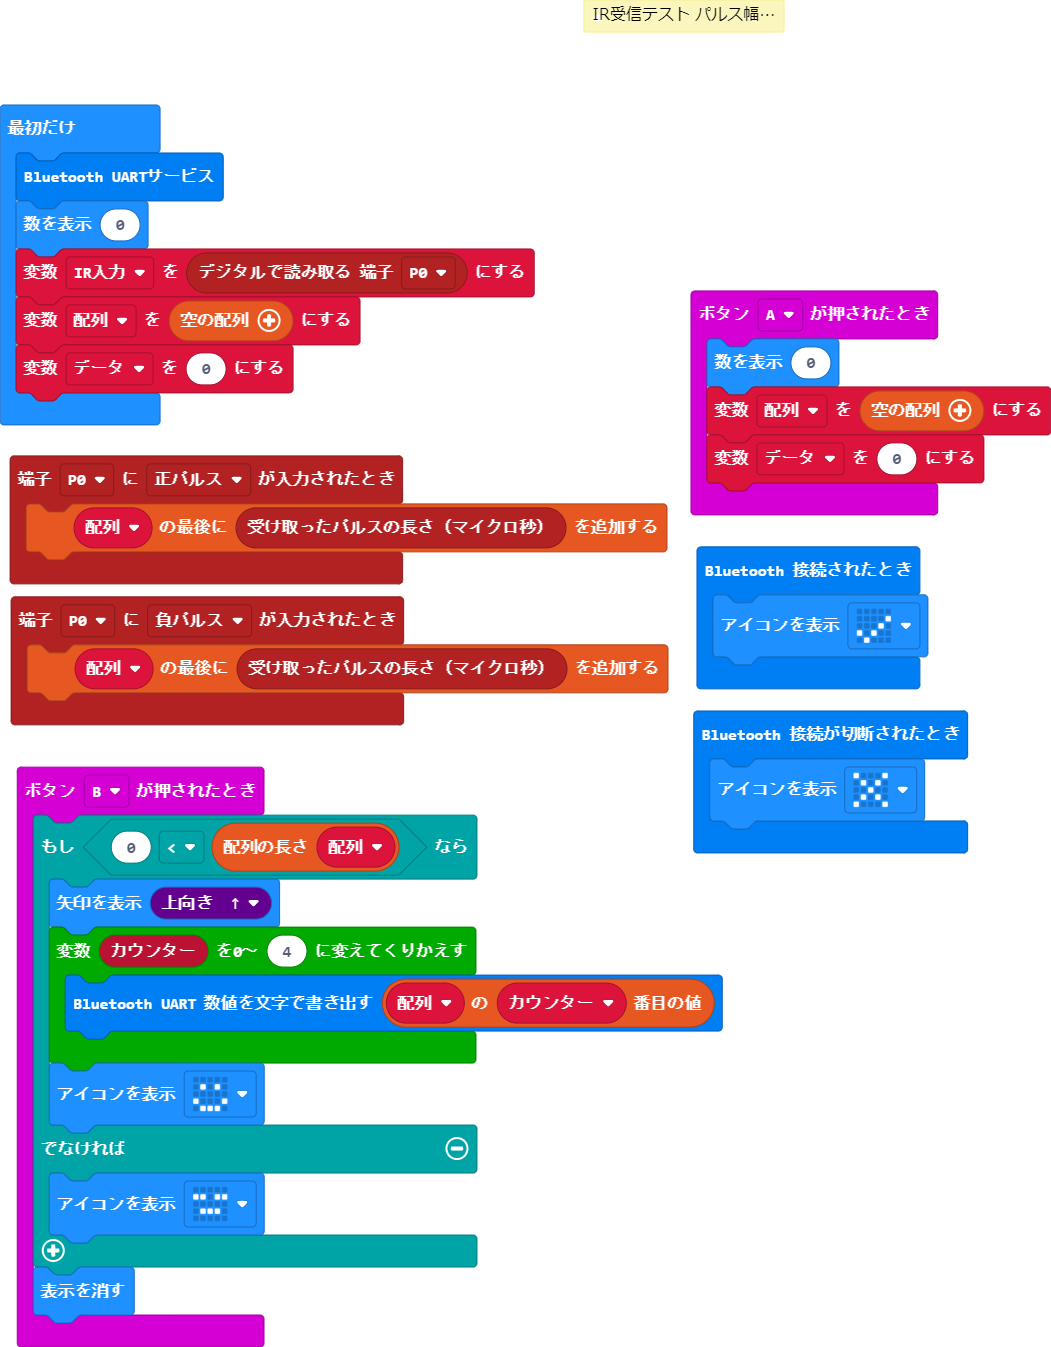
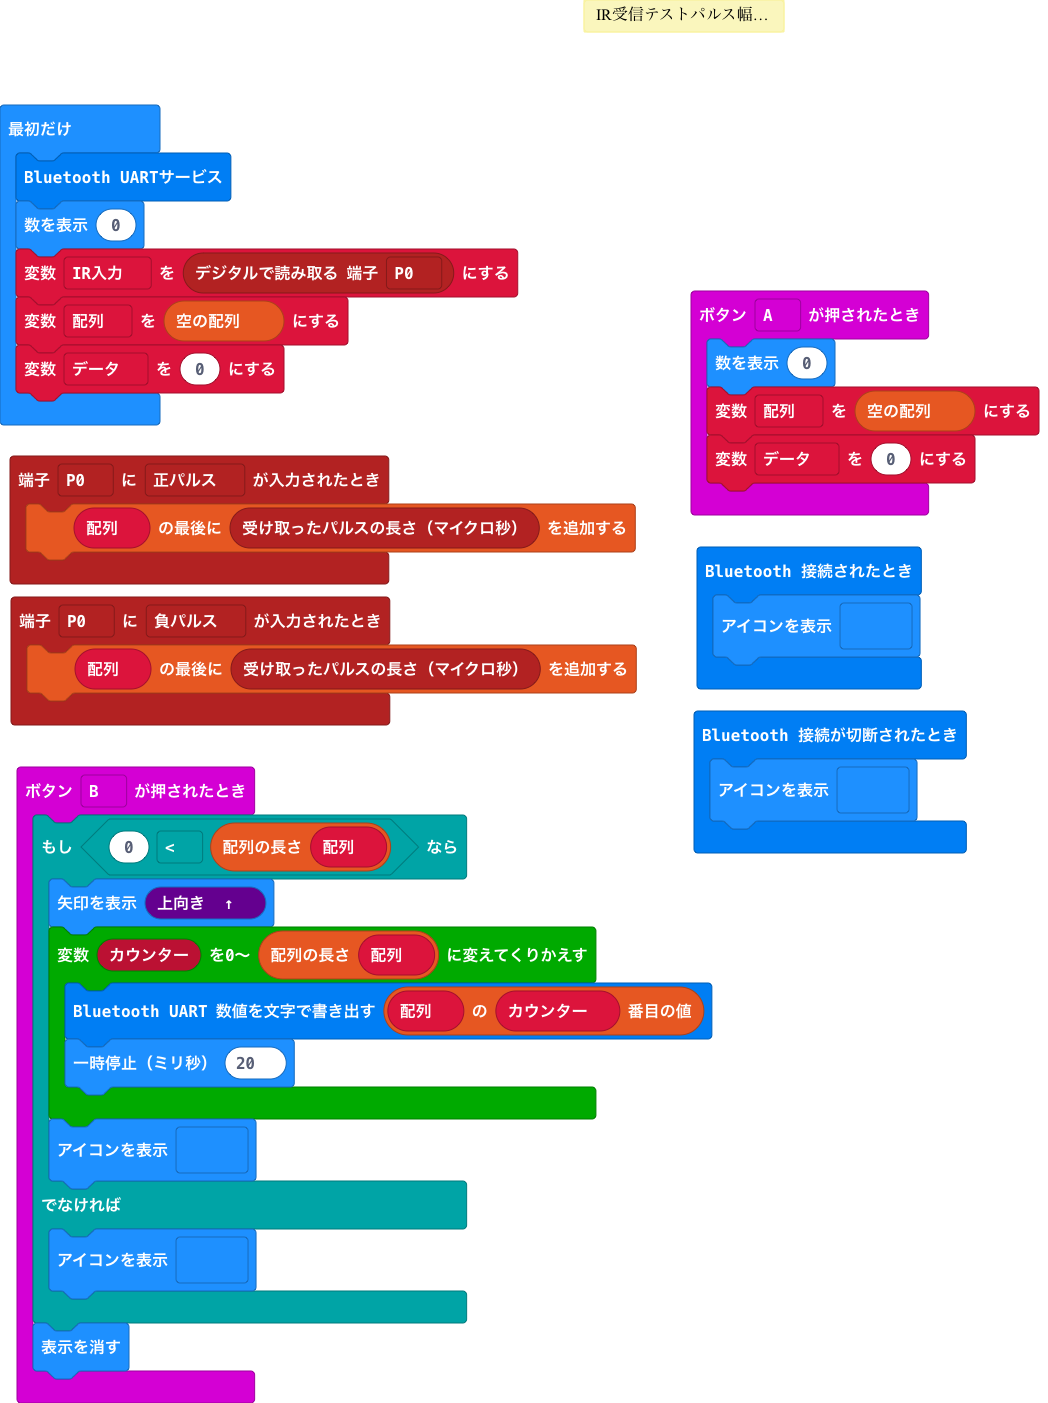
更新 main.blocks, main.ts

Changed region(s): [[0.0, 0.0624, 1.0, 0.9978], [0.5496, 0.0, 0.7328, 0.0312], [0.2137, 0.9666, 0.2748, 1.0]]

diff --git a/main.ts b/main.ts
@@ -29,8 +29,9 @@ pins.onPulsed(DigitalPin.P0, PulseValue.Low, function () {
 input.onButtonPressed(Button.B, function () {
     if (0 < 配列.length) {
         basic.showArrow(ArrowNames.North)
-        for (let カウンター = 0; カウンター <= 4; カウンター++) {
+        for (let カウンター = 0; カウンター <= 配列.length; カウンター++) {
             bluetooth.uartWriteNumber(配列[カウンター])
+            basic.pause(20)
         }
         basic.showIcon(IconNames.Happy)
     } else {
